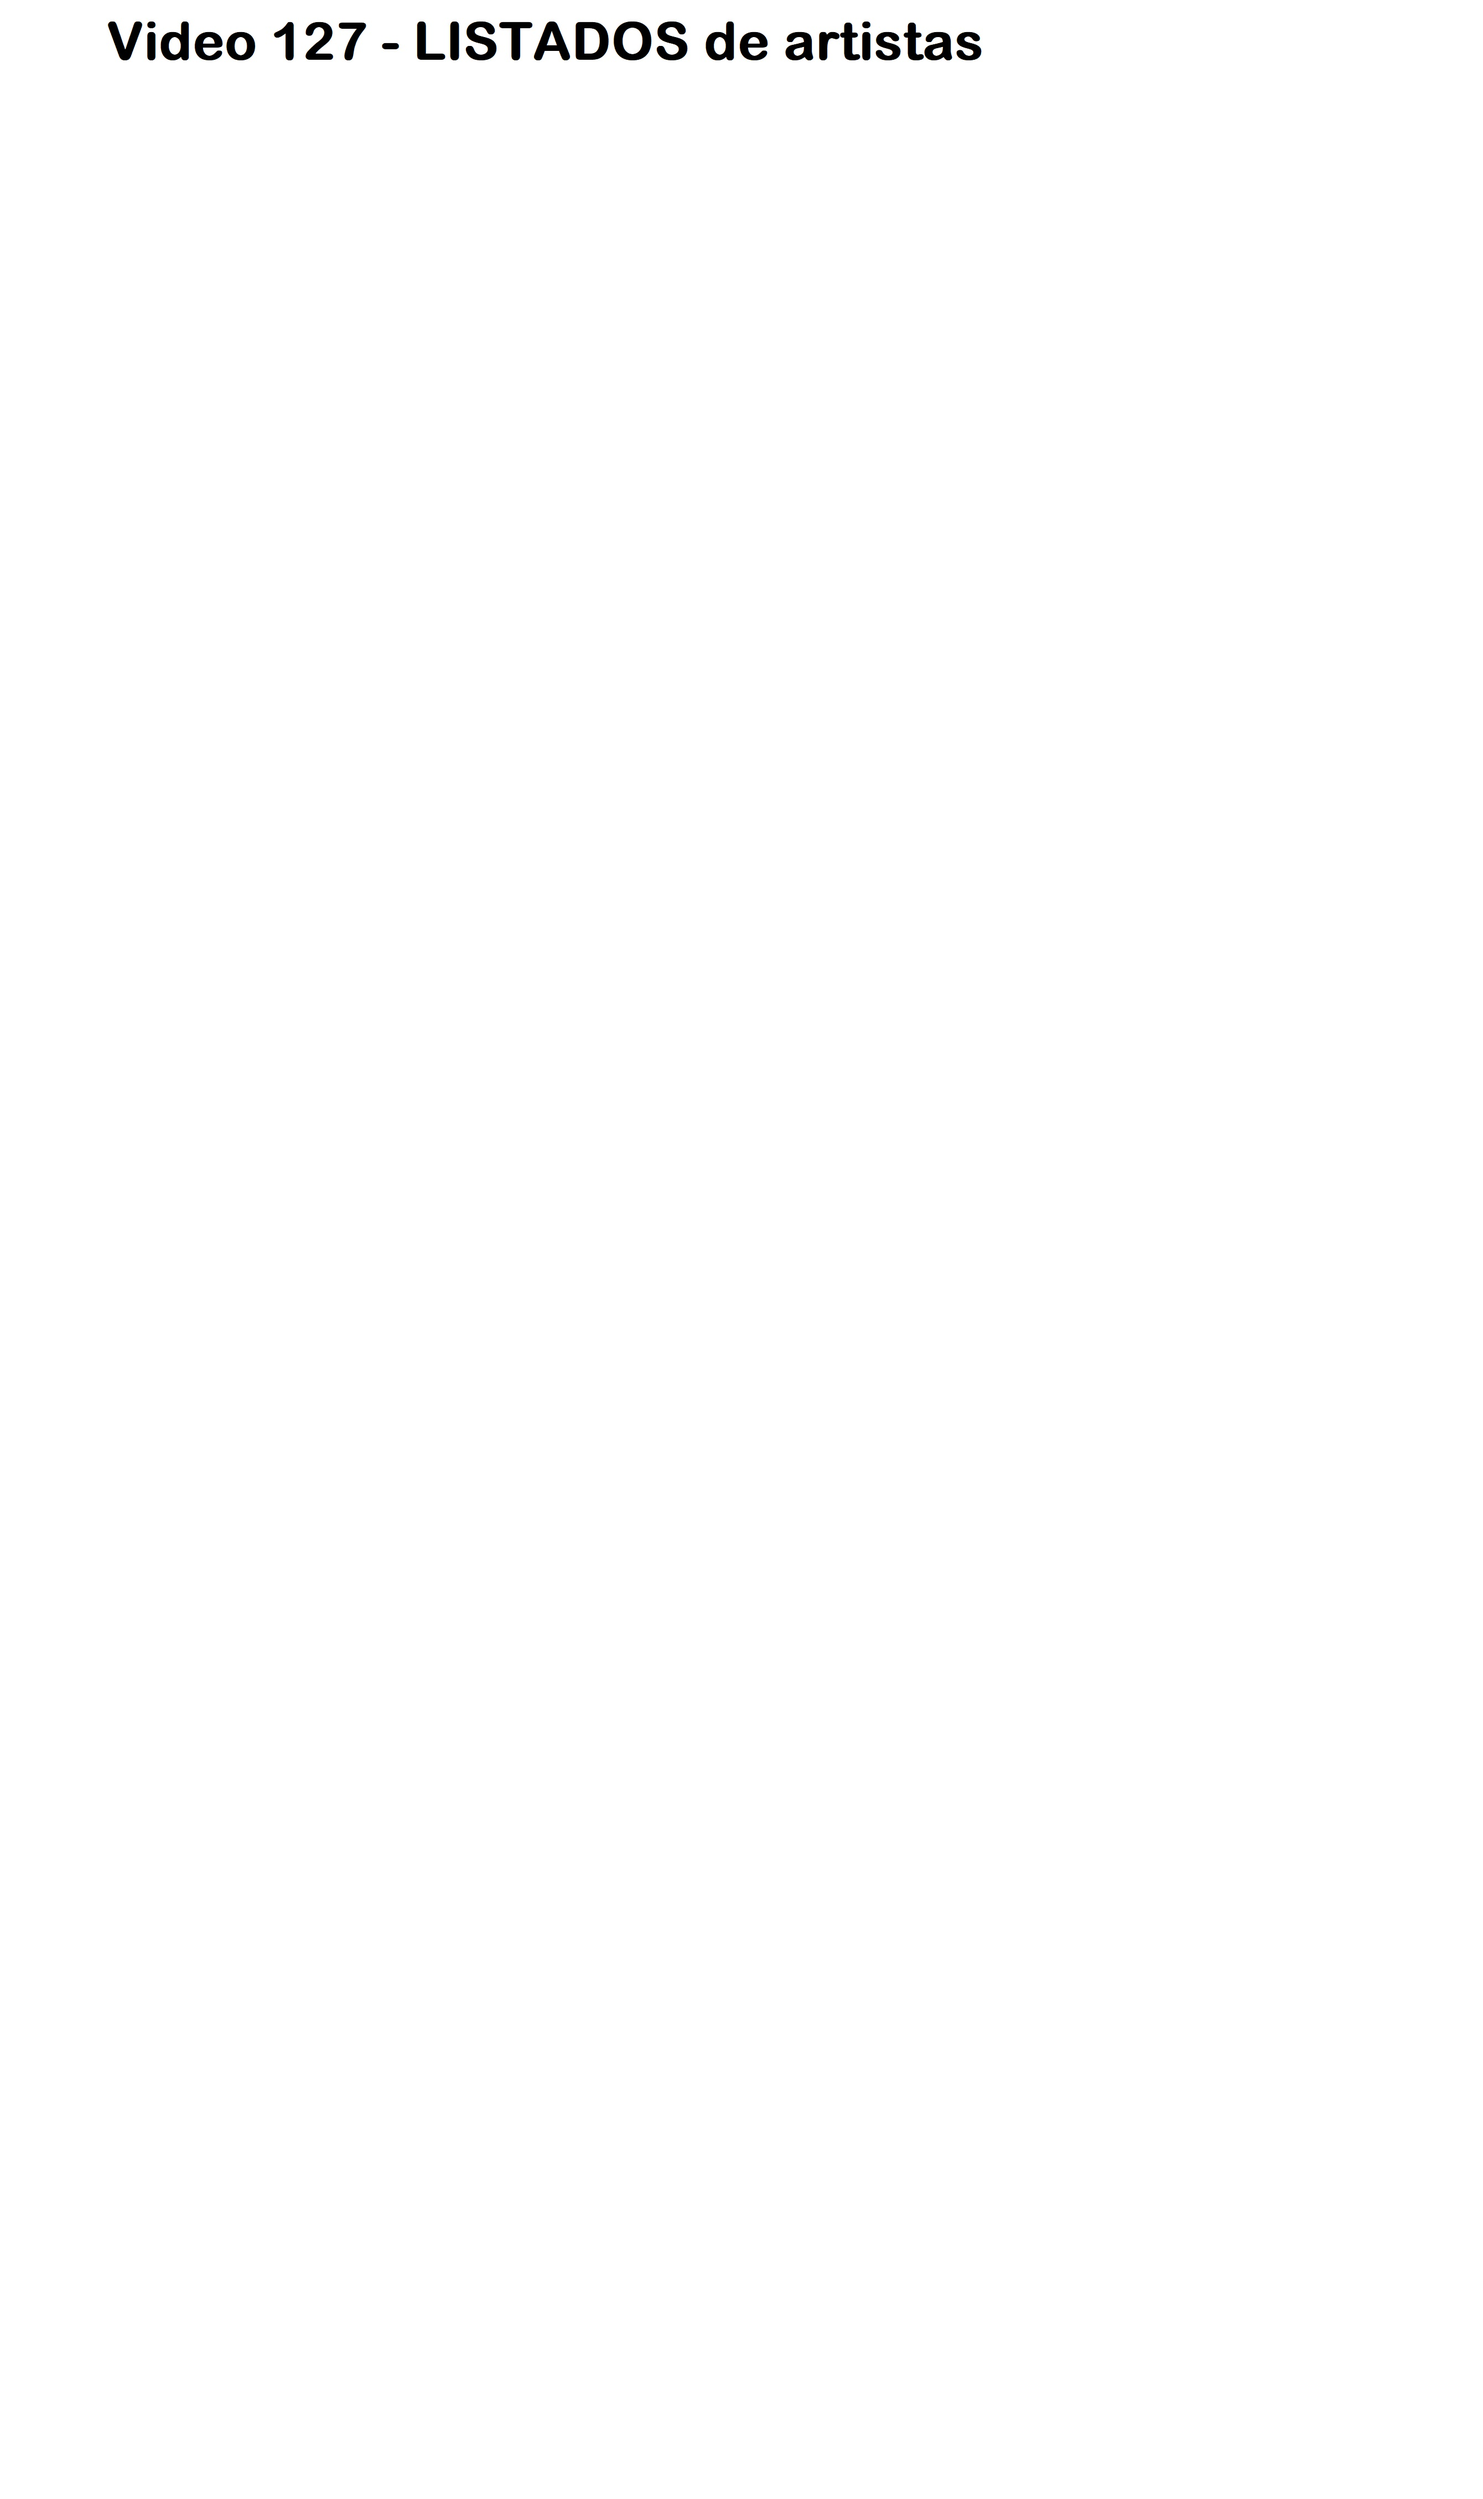
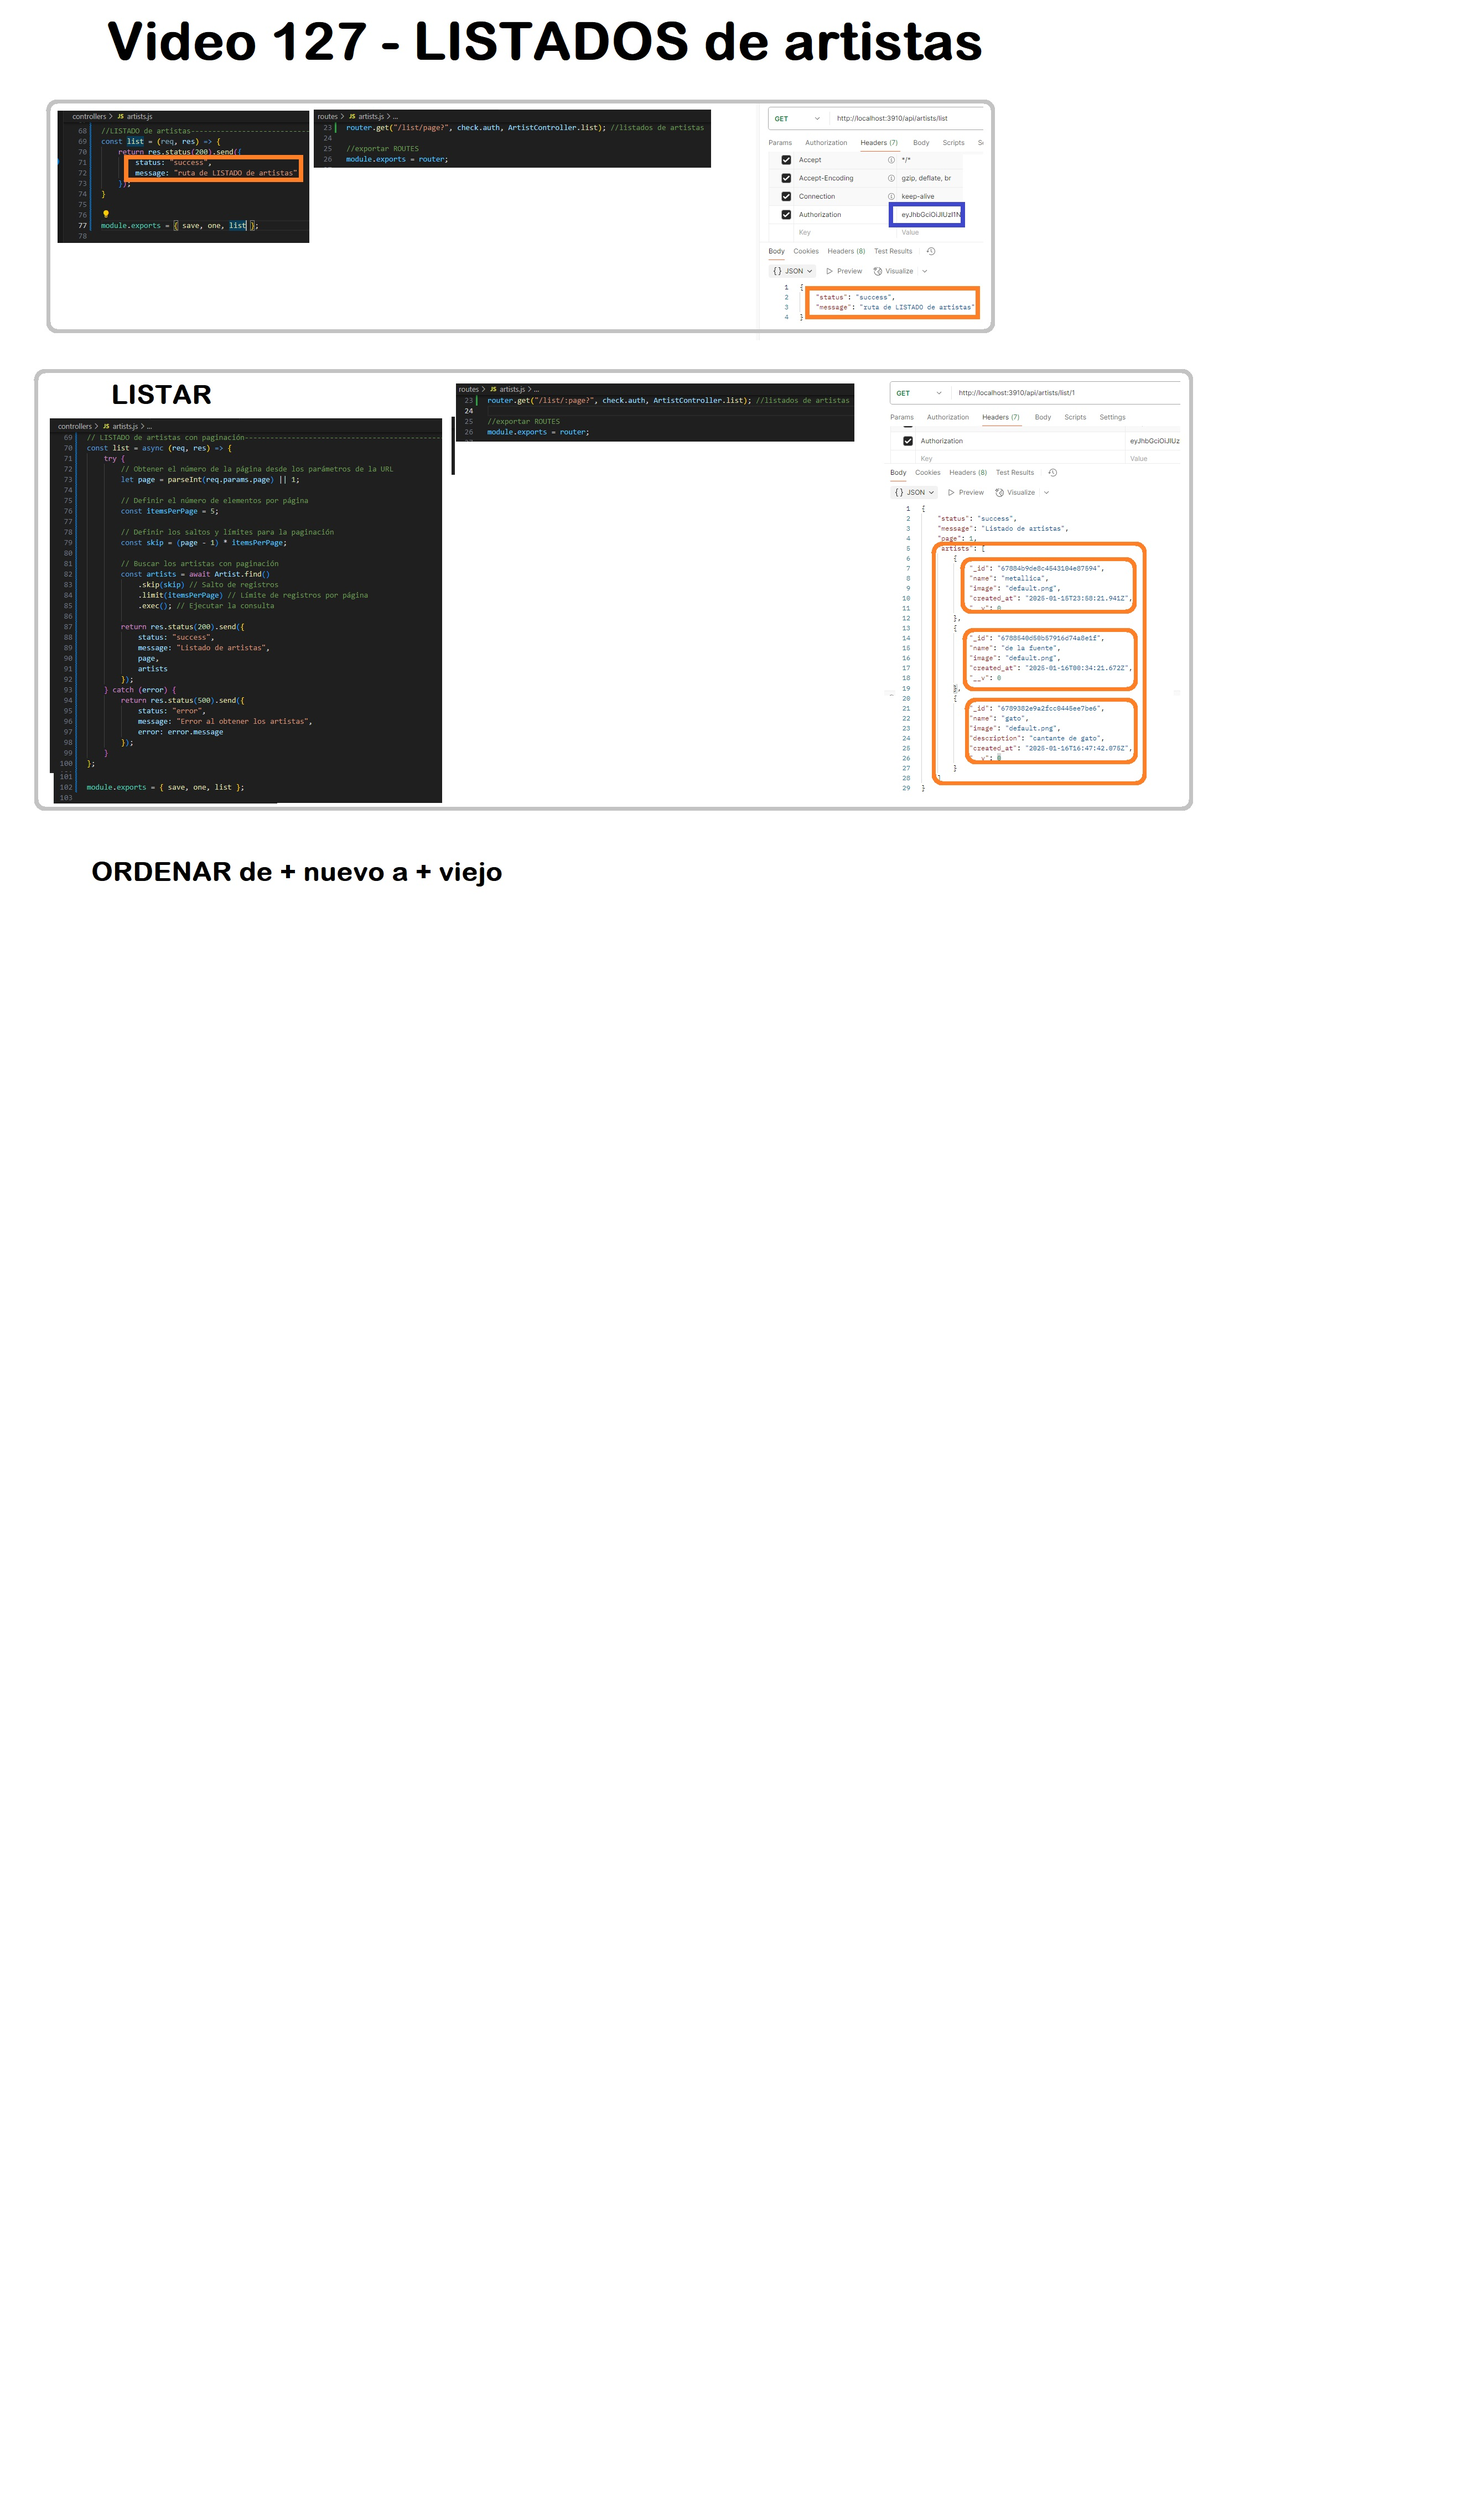
22° V.127 LISTADOS de artistas

diff --git a/controllers/artists.js b/controllers/artists.js
@@ -30,32 +30,6 @@ const save = async (req, res) => {
     }
 };
 
-//OBTENER un artista-----------------------------------------------------------------------------------
-
-// const one = (req, res)=> {
-// //obtener 1 parametro por url
-// const artistId = req.params.id;
-
-// //FIND
-// Artist.findById(artistId, (error, artist)=> {
-//     if (error || !artist) {
-//         return res.status(404).send({
-//             status: "error",
-//             message: "NO existe el ARTISTA"
-//         });
-//     }
-
-//     return res.status(200).send({
-//         status: "succes",
-//         message: "accion de OBTENER 1 usuario",
-//         artist
-//     });
-    
-// })
-  
-// }
-
-
 // OBTENER un artista -----------------------------------------------------------------------------------
 // Función actualizada para usar async/await correctamente
 const one = async (req, res) => {
@@ -90,4 +64,40 @@ const one = async (req, res) => {
     }
 };
 
-module.exports = { save, one };
+
+
+// LISTADO de artistas con paginación-----------------------------------------------------------------------------------
+const list = async (req, res) => {
+    try {
+        // Obtener el número de la página desde los parámetros de la URL
+        let page = parseInt(req.params.page) || 1;
+
+        // Definir el número de elementos por página
+        const itemsPerPage = 5;
+
+        // Definir los saltos y límites para la paginación
+        const skip = (page - 1) * itemsPerPage;
+
+        // Buscar los artistas con paginación
+        const artists = await Artist.find()
+            .skip(skip) // Salto de registros
+            .limit(itemsPerPage) // Límite de registros por página
+            .sort("name") //ordena por campo name de la A a la Z
+            .exec(); // Ejecutar la consulta
+
+        return res.status(200).send({
+            status: "success",
+            message: "Listado de artistas",
+            page,
+            artists
+        });
+    } catch (error) {
+        return res.status(500).send({
+            status: "error",
+            message: "Error al obtener los artistas",
+            error: error.message
+        });
+    }
+};
+
+module.exports = { save, one, list };

diff --git a/routes/artists.js b/routes/artists.js
@@ -20,6 +20,7 @@ const ArtistController = require("../controllers/artists");//y ya tengo acceso a
 console.log("Cargando rutas de artistas...");  // Agrega este log para verificar
 router.post("/save", ArtistController.save);  //grabar artista
 router.get("/one/:id", check.auth, ArtistController.one); //obtener artista
+router.get("/list/:page?", check.auth, ArtistController.list); //listados de artistas
 
 //exportar ROUTES
 module.exports = router;
